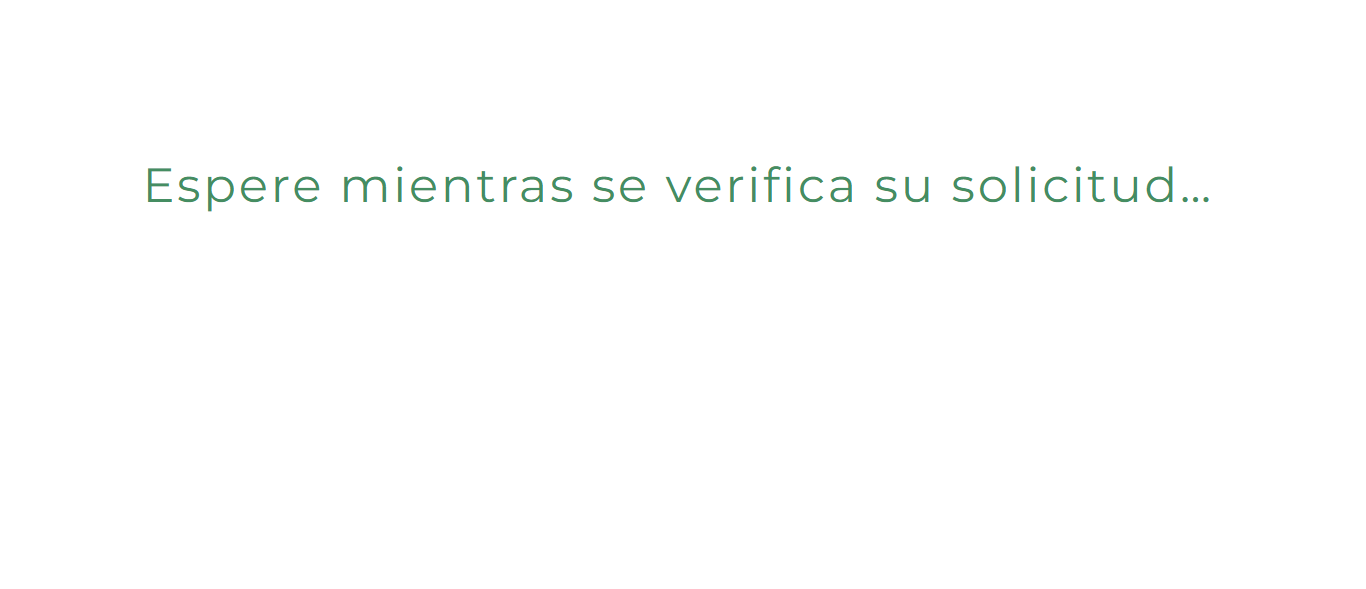
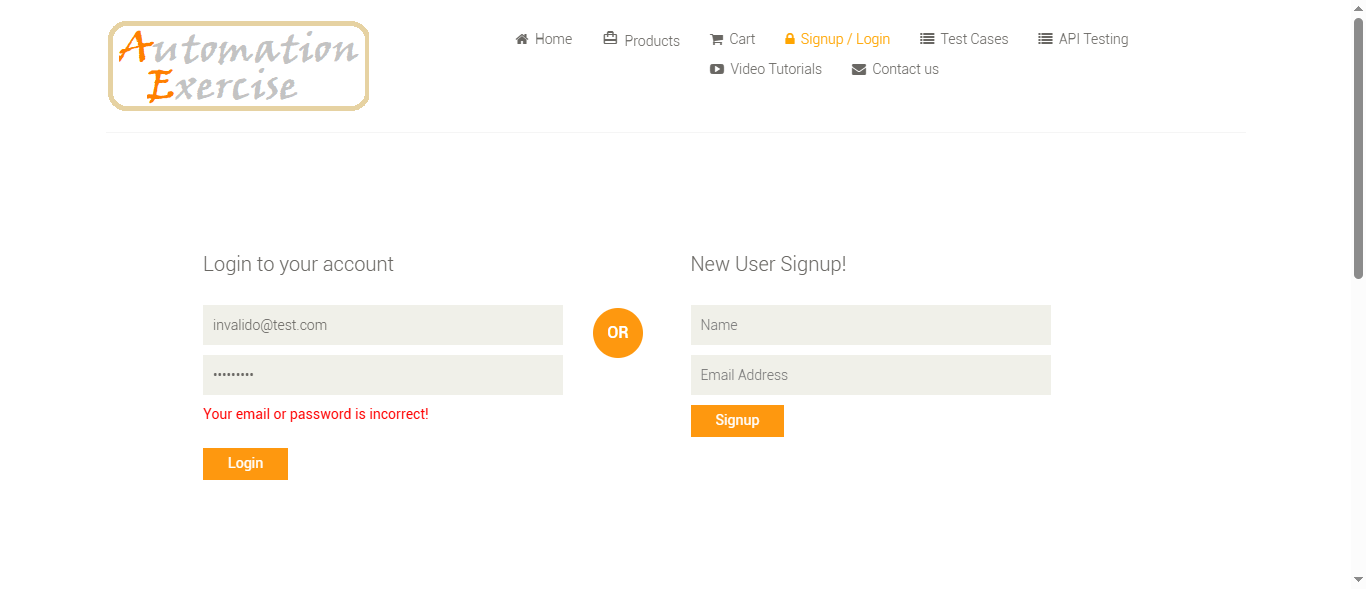
tests registro automationexercise

diff --git a/tests/test_autoexercise_register.py b/tests/test_autoexercise_register.py
@@ -1,8 +1,4 @@
 
-# NOTA: estos tests fallan porque automationexercise.com
-# tiene proteccion anti-bot (Cloudflare) que bloquea Selenium.
-# El codigo es correcto - el sitio detecta automatizacion.
-
 import pytest
 import time
 from pages.autoexercise_register_page import AutoexerciseRegisterPage

diff --git a/pages/autoexercise_register_page.py b/pages/autoexercise_register_page.py
@@ -1,6 +1,4 @@
-# NOTA: estos tests fallan porque automationexercise.com
-# tiene proteccion anti-bot (Cloudflare) que bloquea Selenium.
-# El codigo es correcto - el sitio detecta automatizacion.
+
 
 
 from selenium.webdriver.common.by import By
